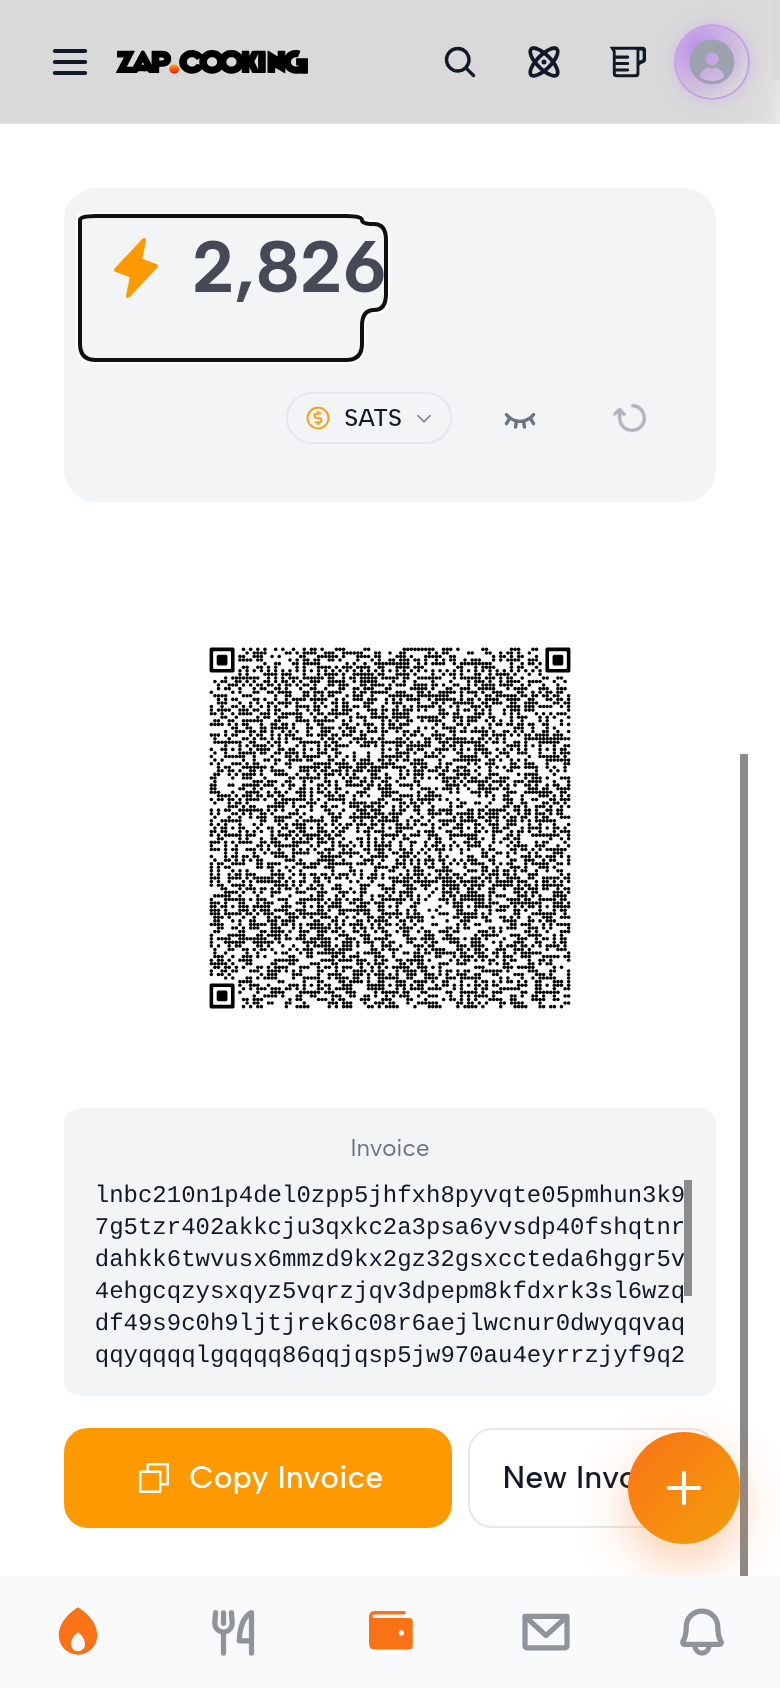
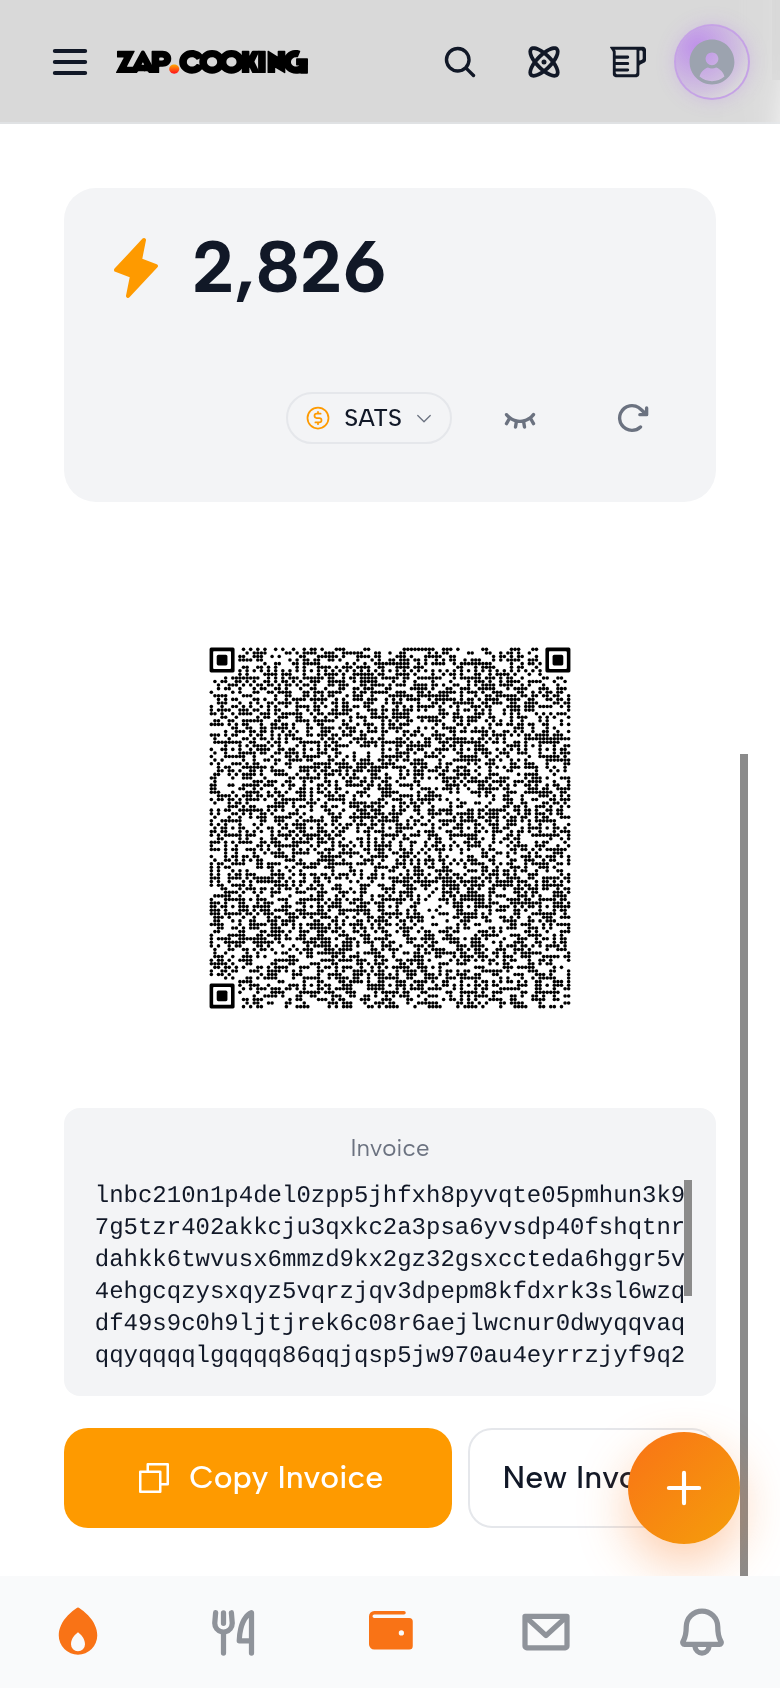
fix(wallet): suppress the raw focus outline on the balance amount
Opening the wallet modal focuses the first focusable element, which is the
balance amount div (role=button, tabindex=0, the SATS/fiat toggle) - so the
browser painted its default focus outline around bolt + amount, reading as
a stray border that is not part of the design.

outline-none + focus-visible:ring-2 (amber, matching Send/Receive) on all
three balance-amount wrappers: keyboard users still get a visible focus
ring, programmatic/touch focus no longer paints the UA outline.

Changed region(s): [[0.2462, 0.1232, 0.5231, 0.2156], [0.0923, 0.1232, 0.1231, 0.2156], [0.8, 0.2156, 0.8308, 0.2464]]

diff --git a/src/components/wallet/WalletPanel.svelte b/src/components/wallet/WalletPanel.svelte
@@ -569,6 +569,14 @@
     resetReceiveModal();
     showSendModal = false;
     showReceiveModal = true;
+    // DEV-ONLY screenshot rig (never commit): pre-seed a real invoice string
+    // + a balance after the reset so the receive QR layout can be captured
+    // without a live NWC round-trip.
+    if (browser && window.location.search.includes('devinvoice')) {
[1 lines of base64/hex data omitted]
+      receiveAmount = 21;
+      walletBalance.set(2826); // rig balance so the card renders a real amount
+    }
   }
 
   // Closes whichever overlay view is currently active. Used by the
@@ -3069,7 +3077,7 @@
         <div class="flex items-start justify-between gap-3 mb-2 balance-row">
           <div class="flex-1 min-w-0">
             <div
-              class="inline-block max-w-full rounded-lg -mx-3 px-3 -my-1.5 py-1.5 cursor-pointer select-none hover:bg-white/5 transition-colors"
+              class="inline-block max-w-full rounded-lg -mx-3 px-3 -my-1.5 py-1.5 cursor-pointer select-none hover:bg-white/5 transition-colors outline-none focus-visible:ring-2 focus-visible:ring-amber-500"
               role="button"
               tabindex="0"
               aria-label="Toggle SATS / fiat display"
@@ -3148,7 +3156,7 @@
         <div class="flex items-start justify-between gap-3 mb-2 balance-row">
           <div class="flex-1 min-w-0">
             <div
-              class="inline-block max-w-full rounded-lg -mx-3 px-3 -my-1.5 py-1.5 cursor-pointer select-none hover:bg-white/5 transition-colors"
+              class="inline-block max-w-full rounded-lg -mx-3 px-3 -my-1.5 py-1.5 cursor-pointer select-none hover:bg-white/5 transition-colors outline-none focus-visible:ring-2 focus-visible:ring-amber-500"
               role="button"
               tabindex="0"
               aria-label="Toggle SATS / fiat display"
@@ -3242,7 +3250,7 @@
           >
             <div class="flex-1 min-w-0">
               <div
-                class="inline-block max-w-full rounded-lg transition-colors {!isPanelScrolled && !showStableBalanceAsPrimary
+                class="inline-block max-w-full rounded-lg transition-colors outline-none focus-visible:ring-2 focus-visible:ring-amber-500 {!isPanelScrolled && !showStableBalanceAsPrimary
                   ? '-mx-3 px-3 -my-1.5 py-1.5 cursor-pointer select-none hover:bg-white/5'
                   : ''}"
                 role={!isPanelScrolled && !showStableBalanceAsPrimary ? 'button' : undefined}
